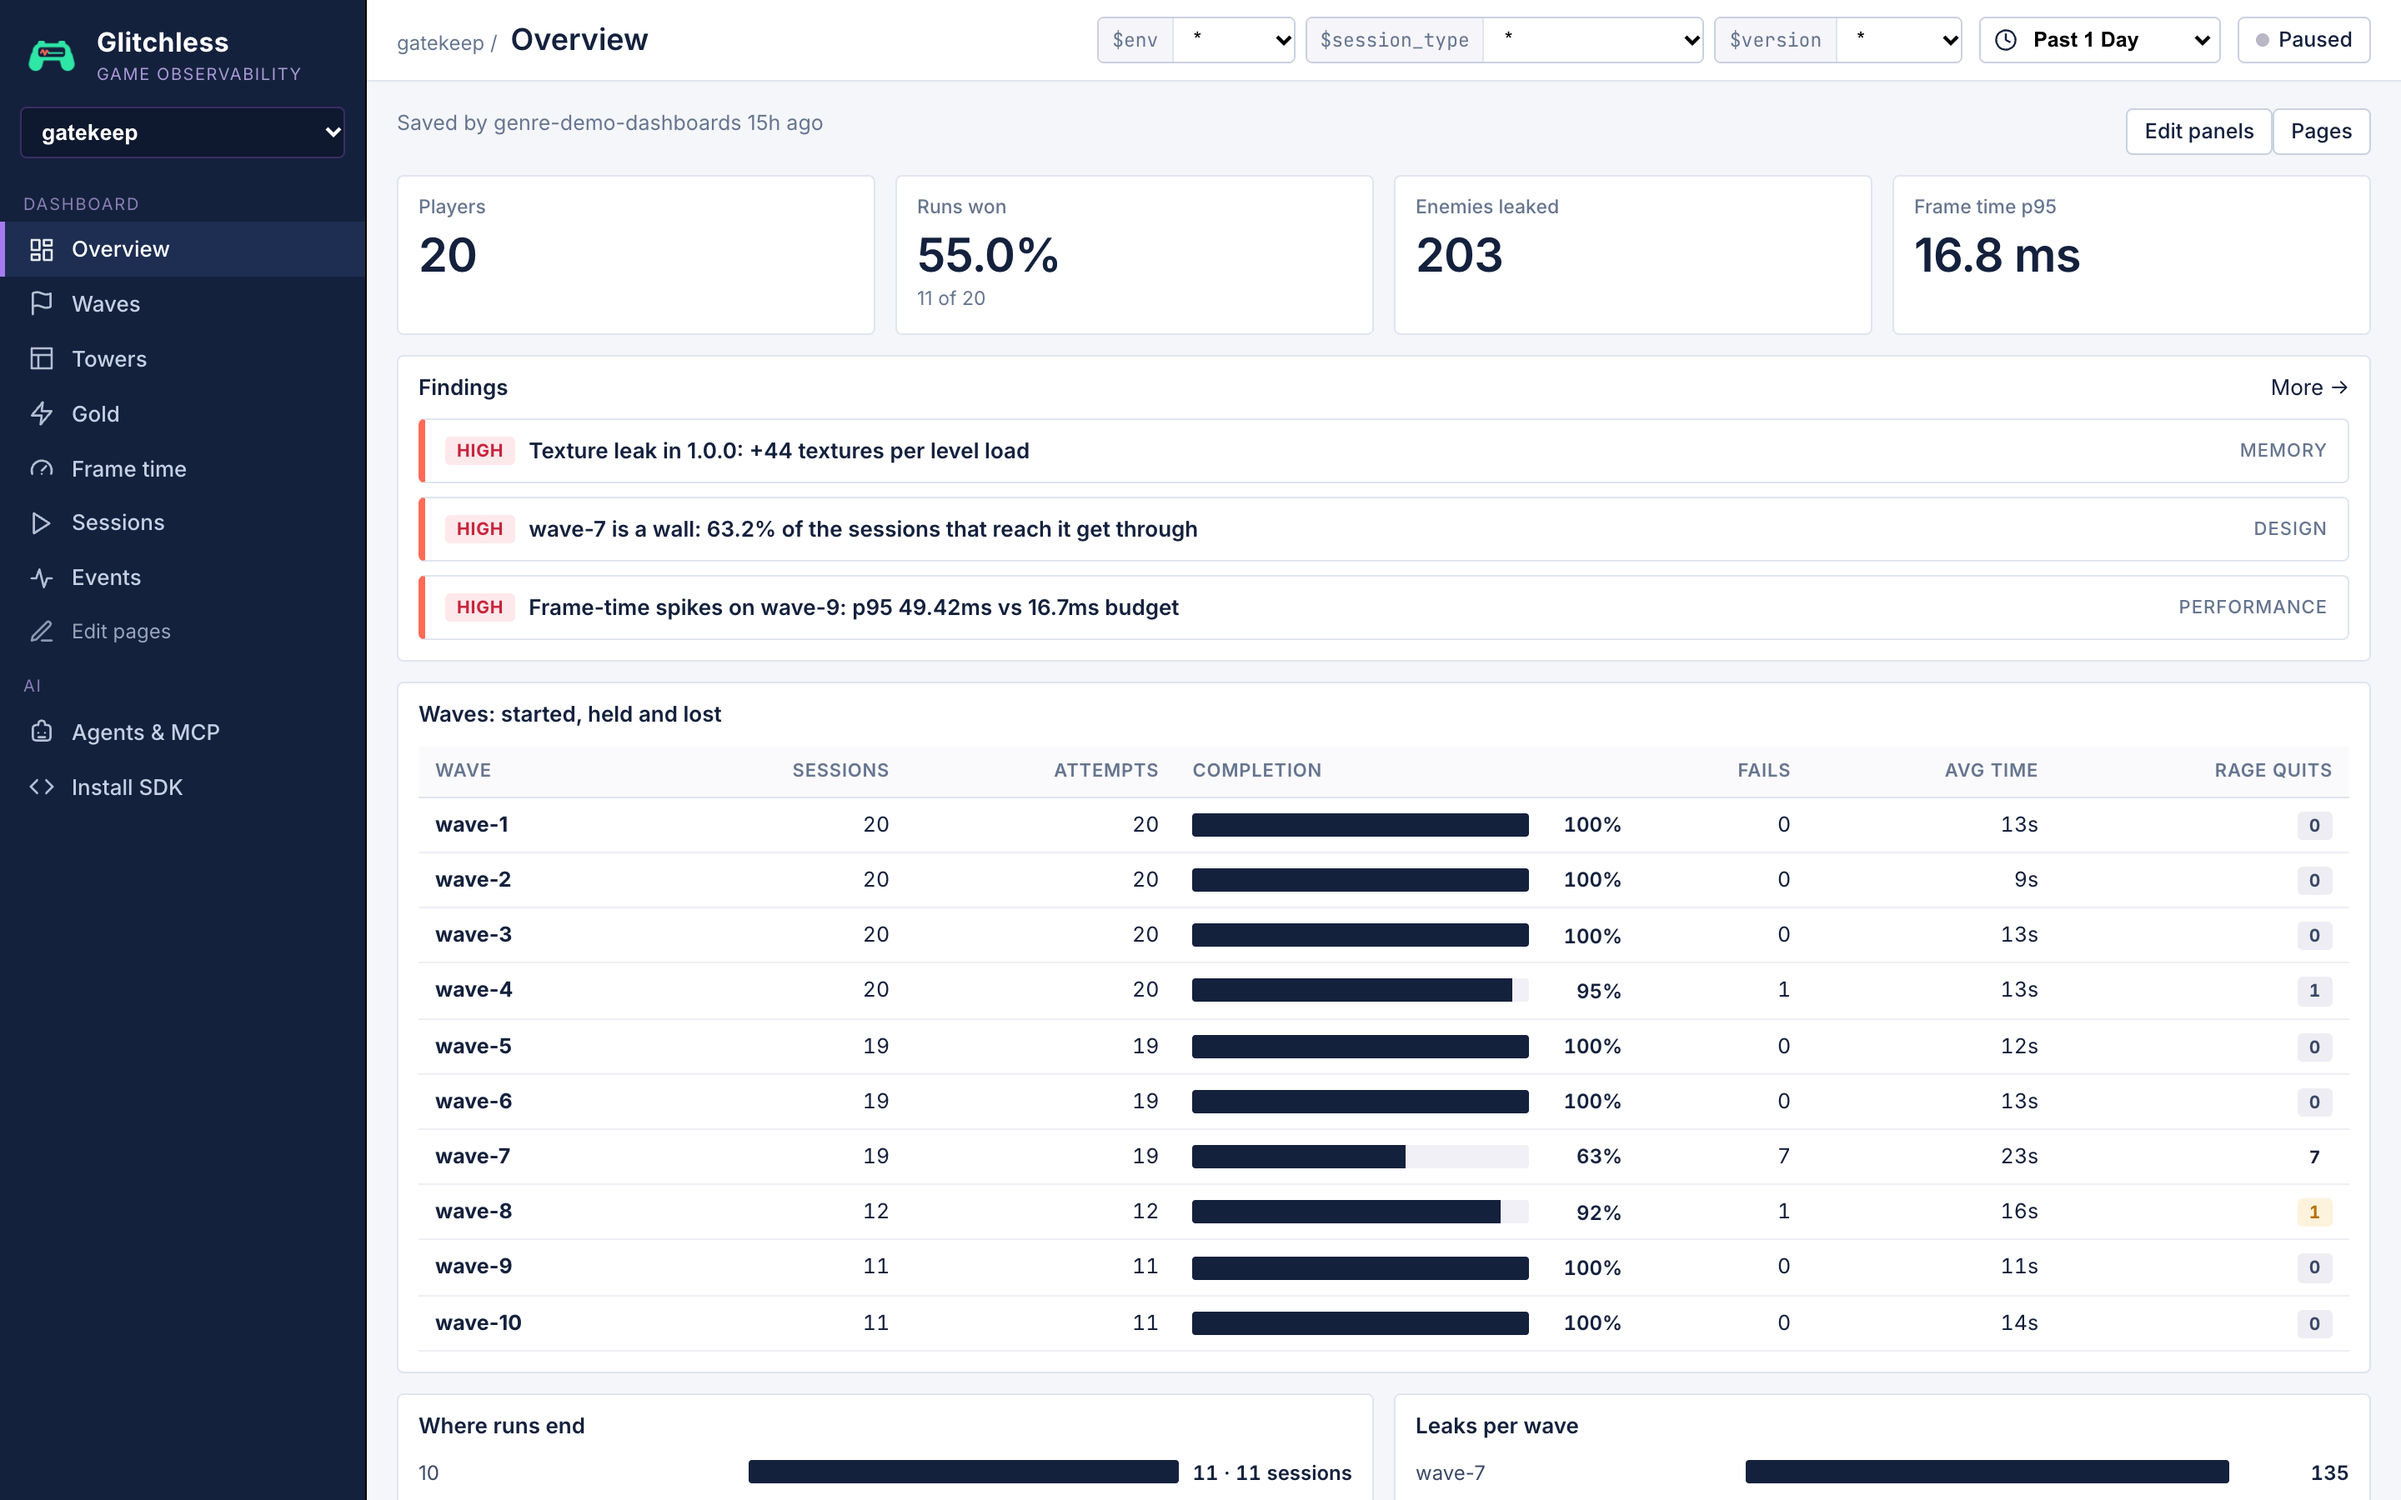
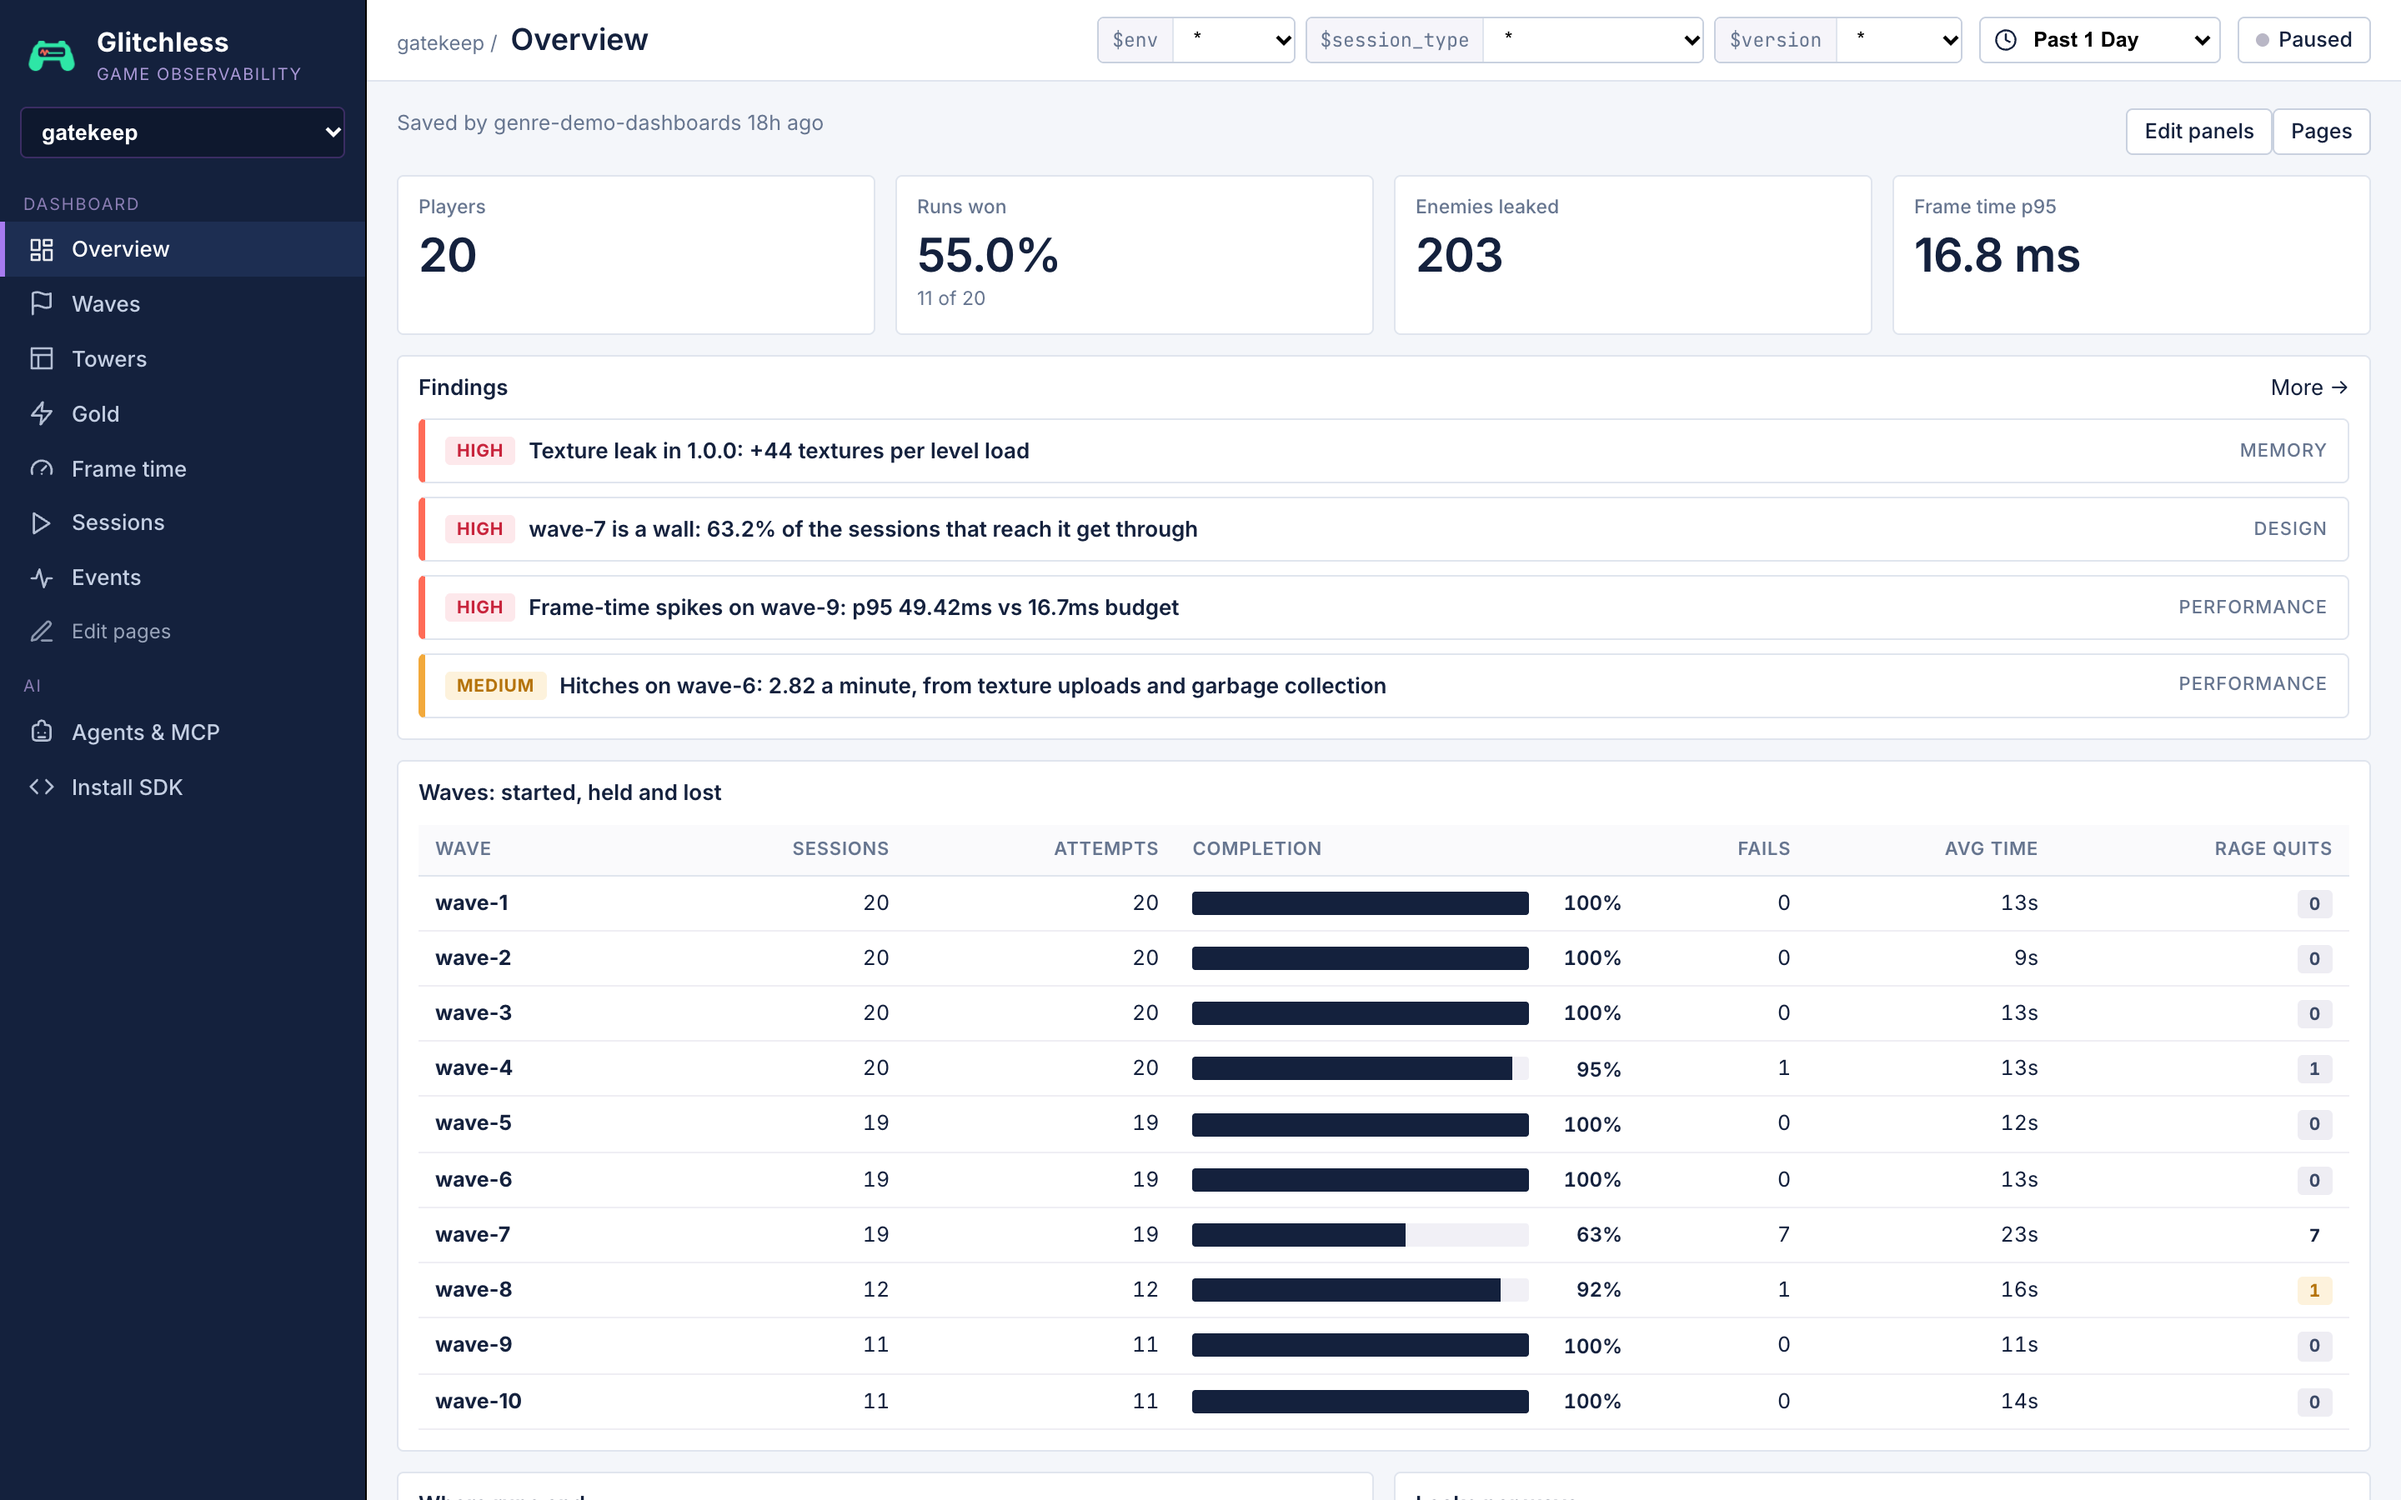
Hitch findings: Blastpit round 1, Gatekeep wave 6, Slipstream harbor
The server now reports one-off stalls on a level whose p95 is fine. Three
Arcade games get one each; Blastpit's and Gatekeep's boards show theirs, so
those captures are re-shot. Slipstream's is low and stays off its board.

diff --git a/games/gatekeep/README.md b/games/gatekeep/README.md
@@ -153,6 +153,9 @@ What Glitchless found in the 20 bot sessions (`npm run bots -- --game http://loc
 - **high, performance:** *Frame-time spikes on wave-9: p95 49.42ms vs 16.7ms budget*: 18.8% of wave 9's frames over budget,
   20 hitches a minute, every other wave at 16.78 ms. The hitches' top cause is `texture_upload` (48), and the advice
   says "a CanvasTexture per object, or needsUpdate on every change: share one texture or atlas".
+- **medium, performance:** *Hitches on wave-6: 2.82 a minute, from texture uploads and garbage collection*: wave 6's p95
+  holds at 16.78 ms, but 10 frames stalled across 19 sessions (`texture_upload` 7, `gc` 5): the health-bar textures
+  again, three waves before the swarm turns them into a frame-time spike.
 - Arrows are the most-built tower (112) but cannons do the killing (3,653 of 4,994 kills): the adaptation the wave
   teaches.
 

diff --git a/games/slipstream/README.md b/games/slipstream/README.md
@@ -190,6 +190,9 @@ What Glitchless found in the 20 bot sessions (`npm run bots -- --game http://loc
   in x -48.6 to -47.6, z -43.9 to -38.2, the Cliff Hairpin, right after the boost pad. 37 of the 47 wrecks are in
   `cliff_hairpin`, and 18 of the 20 sessions that hit the pad at the bottom of the descent wrecked in the hairpin after
   it.
+- **low, performance:** *Hitches on harbor: 1.02 a minute, from garbage collection and shader compiles*: harbor's p95
+  holds at 16.78 ms, but 12 frames stalled across 20 sessions (`script` 7, `gc` 5, `render` 3, `shader_compile` 3), a
+  quarter of them within 1.5 s of an `overtake`.
 - Rivals wreck there too, so the hairpin is also where players overtake most (44 of 102).
 
 ![The Slipstream canyon heatmap](../../assets/screenshots/slipstream-dashboard-heatmap.png)

diff --git a/games/blastpit/README.md b/games/blastpit/README.md
@@ -175,5 +175,8 @@ a busy or battery-throttled machine were left out, since they turn every round's
 - **high, design:** *round-3 is a wall: 63.6% of the sessions that reach it get through*: 7 of 11, after 100% on round 1
   and 92% on round 2. Its 13 deaths (11 to swarmers) are spread across the arena rather than at one spot, and 4 of the 5
   rage quits are on round 3.
+- **medium, performance:** *Hitches on round-1: 2.81 a minute, from garbage collection*: round 1's p95 holds at
+  16.78 ms, but 10 frames stalled in 12 sessions, stutters a percentile hides. Only three of them carry a cause, one
+  each `gc`, `render` and `script`, so the garbage collection in the title rests on one frame.
 
 ![The Blastpit dashboard](../../assets/screenshots/blastpit-dashboard.png)
